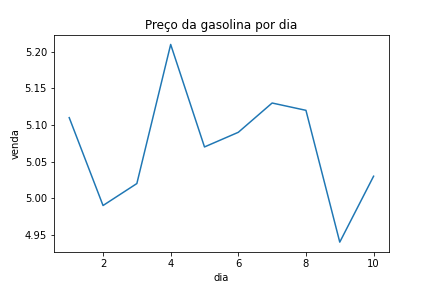
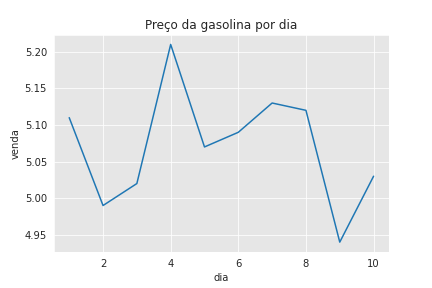
arquivos gasolina.py e gasolina.png alterados em develop

diff --git a/gasolina.py b/gasolina.py
@@ -4,5 +4,6 @@ import matplotlib.pyplot as plt
 
 df = pd.read_csv('gasolina.csv')
 
-sns.lineplot(data=df, x="dia", y="venda").set(title="Preço da gasolina por dia")
+sns.set_style("darkgrid", {"axes.facecolor": ".9"})
+sns.lineplot(data=df, x="dia", y="venda", markers=True).set(title="Preço da gasolina por dia")
 plt.savefig('gasolina.png')
